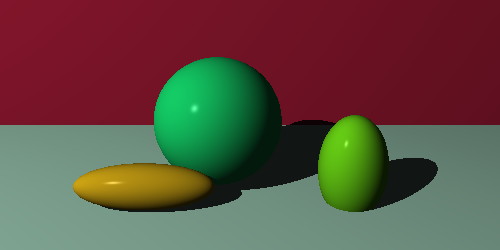
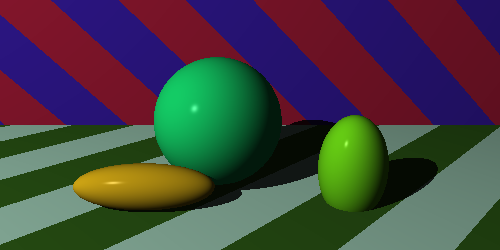
Go ray tracer; use stripe pattern

diff --git a/books/gray/figure/pattern_test.go b/books/gray/figure/pattern_test.go
@@ -2,19 +2,20 @@ package figure
 
 import (
 	"github.com/stretchr/testify/assert"
+	"gray/multid"
 	"gray/oned"
 	"testing"
 )
 
 func Test_creating_stripe_pattern(t *testing.T) {
-	pattern := StripePattern{oned.White, oned.Black}
+	pattern := MakeStripePattern(oned.White, oned.Black)
 
 	assert.Equal(t, oned.White, pattern.A)
 	assert.Equal(t, oned.Black, pattern.B)
 }
 
 func Test_stripe_pattern_is_constant_in_y(t *testing.T) {
-	pattern := StripePattern{oned.White, oned.Black}
+	pattern := MakeStripePattern(oned.White, oned.Black)
 
 	assert.Equal(t, oned.White, pattern.StripeAt(oned.Point{0, 0, 0}))
 	assert.Equal(t, oned.White, pattern.StripeAt(oned.Point{0, 1, 0}))
@@ -22,7 +23,7 @@ func Test_stripe_pattern_is_constant_in_y(t *testing.T) {
 }
 
 func Test_stripe_pattern_is_constant_in_z(t *testing.T) {
-	pattern := StripePattern{oned.White, oned.Black}
+	pattern := MakeStripePattern(oned.White, oned.Black)
 
 	assert.Equal(t, oned.White, pattern.StripeAt(oned.Point{0, 0, 0}))
 	assert.Equal(t, oned.White, pattern.StripeAt(oned.Point{0, 0, 1}))
@@ -30,7 +31,7 @@ func Test_stripe_pattern_is_constant_in_z(t *testing.T) {
 }
 
 func Test_stripe_pattern_alternates_in_x(t *testing.T) {
-	pattern := StripePattern{oned.White, oned.Black}
+	pattern := MakeStripePattern(oned.White, oned.Black)
 
 	assert.Equal(t, oned.White, pattern.StripeAt(oned.Point{0, 0, 0}))
 	assert.Equal(t, oned.White, pattern.StripeAt(oned.Point{0.9, 0, 0}))
@@ -40,4 +41,31 @@ func Test_stripe_pattern_alternates_in_x(t *testing.T) {
 
 	assert.Equal(t, oned.Black, pattern.StripeAt(oned.Point{-1, 0, 0}))
 	assert.Equal(t, oned.White, pattern.StripeAt(oned.Point{-1.1, 0, 0}))
+}
+
+func Test_stripes_with_object_transformation(t *testing.T) {
+	object := MakeSphereT(multid.Scaling(2, 2, 2))
+	pattern := MakeStripePattern(oned.White, oned.Black)
+
+	c := pattern.StripeAtObject(object, oned.Point{1.5, 0, 0})
+
+	assert.Equal(t, oned.White, c)
+}
+
+func Test_stripes_with_pattern_transformation(t *testing.T) {
+	object := MakeSphere()
+	pattern := MakeStripePatternT(oned.White, oned.Black, multid.Scaling(2, 2, 2))
+
+	c := pattern.StripeAtObject(object, oned.Point{1.5, 0, 0})
+
+	assert.Equal(t, oned.White, c)
+}
+
+func Test_stripes_with_both_object_and_pattern_transformation(t *testing.T) {
+	object := MakeSphereT(multid.Scaling(2, 2, 2))
+	pattern := MakeStripePatternT(oned.White, oned.Black, multid.Translation(0.5, 0, 0))
+
+	c := pattern.StripeAtObject(object, oned.Point{2.5, 0, 0})
+
+	assert.Equal(t, oned.White, c)
 }

diff --git a/books/gray/figure/material_test.go b/books/gray/figure/material_test.go
@@ -54,7 +54,7 @@ func Test_lighting(t *testing.T) {
 	for _, test := range tests {
 		t.Run(test.name, func(t *testing.T) {
 
-			color := Lighting(DefaultMaterial(), test.light, oned.Point{}, test.eyev, test.normalv, false)
+			color := Lighting(DefaultMaterial(), MakeSphere(), test.light, oned.Point{}, test.eyev, test.normalv, false)
 
 			oned.AssertColorEqualInDelta(t, test.expected, color)
 		})
@@ -67,7 +67,7 @@ func Test_lighting_with_surface_in_shadow(t *testing.T) {
 	normalV := oned.Vector{0, 0, -1}
 	light := PointLight{oned.Point{0, 0, -10}, oned.White}
 
-	r := Lighting(m, light, oned.Point{}, eyeV, normalV, true)
+	r := Lighting(m, MakeSphere(), light, oned.Point{}, eyeV, normalV, true)
 
 	assert.Equal(t, oned.Color{0.1, 0.1, 0.1}, r)
 }
@@ -103,14 +103,14 @@ func Test_Lighting_with_pattern_applied(t *testing.T) {
 		SetAmbient(1).
 		SetDiffuse(0).
 		SetSpecular(0).
-		SetPattern(StripePattern{oned.White, oned.Black}).
+		SetPattern(MakeStripePattern(oned.White, oned.Black)).
 		Build()
 
 	eyeV := oned.Vector{0, 0, -1}
 	normalV := oned.Vector{0, 0, -1}
 	light := PointLight{oned.Point{0, 0, -10}, oned.White}
-	c1 := Lighting(m, light, oned.Point{0.9, 0, 0}, eyeV, normalV, false)
-	c2 := Lighting(m, light, oned.Point{1.1, 0, 0}, eyeV, normalV, false)
+	c1 := Lighting(m, MakeSphere(), light, oned.Point{0.9, 0, 0}, eyeV, normalV, false)
+	c2 := Lighting(m, MakeSphere(), light, oned.Point{1.1, 0, 0}, eyeV, normalV, false)
 
 	assert.Equal(t, oned.White, c1)
 	assert.Equal(t, oned.Black, c2)

diff --git a/books/gray/figure/pattern.go b/books/gray/figure/pattern.go
@@ -1,13 +1,21 @@
 package figure
 
 import (
+	"gray/multid"
 	"gray/oned"
 	"math"
 )
 
 type StripePattern struct {
-	A oned.Color
-	B oned.Color
+	A, B      oned.Color
+	Transform multid.Matrix4
+}
+
+func MakeStripePattern(A, B oned.Color) StripePattern {
+	return StripePattern{A, B, multid.IdentityMatrix}
+}
+func MakeStripePatternT(A, B oned.Color, transform multid.Matrix4) StripePattern {
+	return StripePattern{A, B, transform}
 }
 
 func (p StripePattern) StripeAt(point oned.Point) oned.Color {
@@ -15,4 +23,10 @@ func (p StripePattern) StripeAt(point oned.Point) oned.Color {
 		return p.A
 	}
 	return p.B
+}
+
+func (p StripePattern) StripeAtObject(object Shape, worldPoint oned.Point) oned.Color {
+	objectPoint := object.Transform().Inverse().MultiplyPoint(worldPoint)
+	patternPoint := p.Transform.Inverse().MultiplyPoint(objectPoint)
+	return p.StripeAt(patternPoint)
 }

diff --git a/books/gray/samples/plane_scene_sample_test.go b/books/gray/samples/plane_scene_sample_test.go
@@ -12,14 +12,20 @@ func Test_plane_scene_sample(t *testing.T) {
 	floor := figure.MakePlaneTM(
 		multid.IdentityMatrix,
 		figure.MakeMaterialBuilder().
-			SetColor(oned.Color{0.7, 0.9, 0.8}).
+			SetPattern(figure.StripePattern{
+				oned.Color{0.7, 0.9, 0.8},
+				oned.Color{0.2, 0.4, 0.1},
+				multid.RotationY(math.Pi / 4)}).
 			Build())
 
 	back := figure.MakePlaneTM(
 		multid.Translation(0, 0, 3).
 			Multiply(multid.RotationX(-math.Pi/2)),
 		figure.MakeMaterialBuilder().
-			SetColor(oned.Color{0.6, 0.1, 0.2}).
+			SetPattern(figure.StripePattern{
+				oned.Color{0.6, 0.1, 0.2},
+				oned.Color{0.2, 0.1, 0.6},
+				multid.RotationY(-math.Pi / 4)}).
 			Build())
 
 	left := figure.MakeSphereTM(

diff --git a/books/gray/figure/material.go b/books/gray/figure/material.go
@@ -26,10 +26,10 @@ func DefaultMaterial() Material {
 	}
 }
 
-func Lighting(material Material, light PointLight, point oned.Point, eyev oned.Vector, normalv oned.Vector, inShadow bool) oned.Color {
+func Lighting(material Material, object Shape, light PointLight, point oned.Point, eyev oned.Vector, normalv oned.Vector, inShadow bool) oned.Color {
 	var color oned.Color
 	if material.Pattern != (StripePattern{}) {
-		color = material.Pattern.StripeAt(point)
+		color = material.Pattern.StripeAtObject(object, point)
 	} else {
 		color = material.Color
 	}

diff --git a/books/gray/samples/ball_3d_sample_test.go b/books/gray/samples/ball_3d_sample_test.go
@@ -45,7 +45,7 @@ func Test_ball_3d_sample(t *testing.T) {
 				normal := figure.NormalAt(h.Object, point)
 				eye := ray.Direction.Negate()
 
-				canvas.Pixels[x][y] = figure.Lighting(h.Object.Material(), light, point, eye, normal, false)
+				canvas.Pixels[x][y] = figure.Lighting(h.Object.Material(), h.Object, light, point, eye, normal, false)
 			}
 		}
 	}

diff --git a/books/gray/samples/ball_sample_test.go b/books/gray/samples/ball_sample_test.go
@@ -9,7 +9,7 @@ import (
 
 //todo do not use example in the name
 func Test_ball_sample(t *testing.T) {
-	rayOrigin := oned.Point{0, 0, - 5}
+	rayOrigin := oned.Point{0, 0, -5}
 	wallSize := 7.
 	canvasPixels := 100
 	pixelSize := wallSize / float64(canvasPixels)

diff --git a/books/gray/multid/array.go b/books/gray/multid/array.go
@@ -23,7 +23,7 @@ func multiply(a, b [][]float64) [][]float64 {
 
 	for i := 0; i < aw; i++ {
 		for j := 0; j < bh; j++ {
-			for k := 0; k < ah /*&& k < bw*/ ; k++ {
+			for k := 0; k < ah; /*&& k < bw*/ k++ {
 				c[i][j] += a[i][k] * b[k][j]
 			}
 		}

diff --git a/books/gray/oned/tuple.go b/books/gray/oned/tuple.go
@@ -16,7 +16,7 @@ func (t Tuple) subtract(o Tuple) Tuple {
 }
 
 func (t Tuple) negate() Tuple {
-	return Tuple{- t.X, - t.Y, - t.Z}
+	return Tuple{-t.X, -t.Y, -t.Z}
 }
 
 func (t Tuple) multiplyScalar(scalar float64) Tuple {

diff --git a/books/gray/figure/world.go b/books/gray/figure/world.go
@@ -23,6 +23,7 @@ func (w World) Intersect(ray Ray) Inters {
 
 func (w World) ShadeHit(comps Computations) oned.Color {
 	return Lighting(comps.Object.Material(),
+		comps.Object,
 		w.Light,
 		comps.Point,
 		comps.EyeV,

diff --git a/books/gray/figure/light.go b/books/gray/figure/light.go
@@ -6,4 +6,3 @@ type PointLight struct {
 	Position  oned.Point
 	Intensity oned.Color
 }
-

diff --git a/books/gray/figure/shape_test.go b/books/gray/figure/shape_test.go
@@ -1,2 +1,1 @@
 package figure
-
